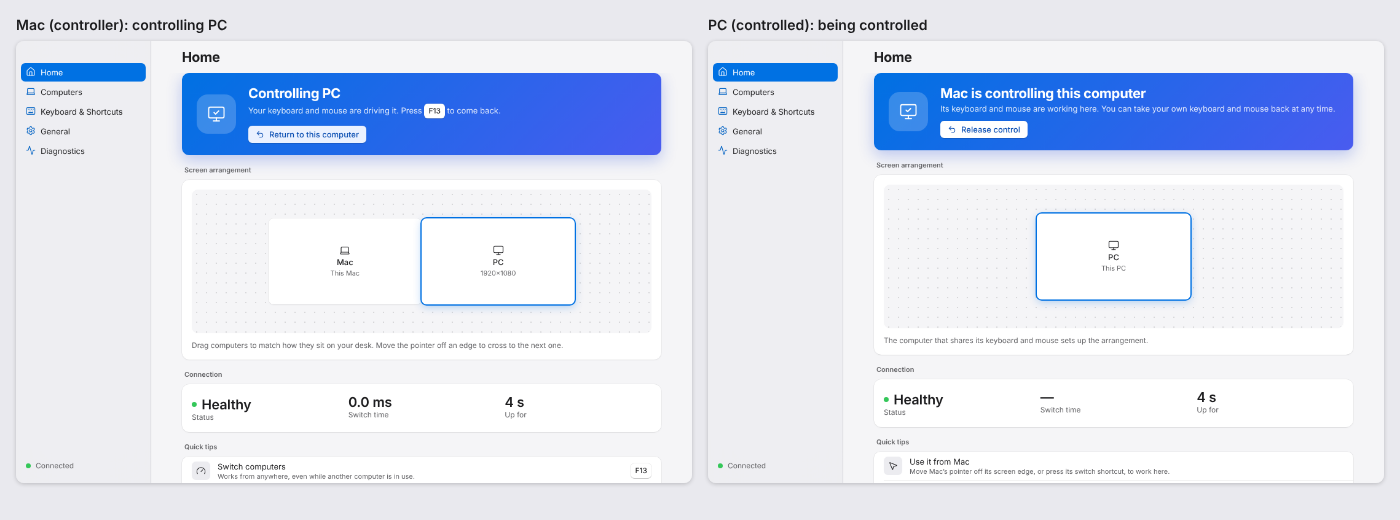
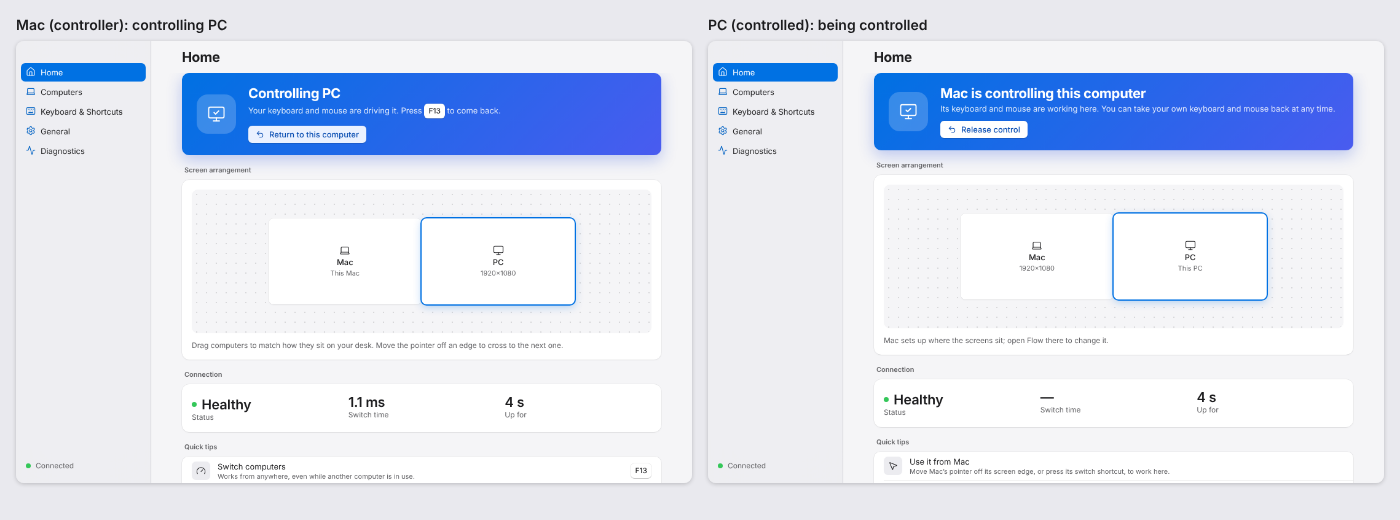
fix(ui): a controlled computer's arrangement shows its controller
The engine's layout on a controlled computer only has its own screen,
so Home showed one lonely tile. It now shows the controller beside it,
read-only, and says the controller sets up where screens sit.

Claude-Session: https://claude.ai/code/session_01VqG8KjxmVRiXuMMAxn8FU4

diff --git a/app/ui/src/features/home/HomeView.tsx b/app/ui/src/features/home/HomeView.tsx
@@ -44,7 +44,31 @@ export function HomeView() {
     : activeScreen === 'local'
       ? (me?.id ?? null)
       : activeScreen;
-  const hasLayout = s.screenLayout.screens.length > 1;
+  // A controlled computer only knows its own screen; the arrangement lives on
+  // the controller. Show the controller beside it so the picture isn't one
+  // lonely tile (read-only; where they really sit is set on the controller).
+  const controllerDevice = s.controlState?.controllerDeviceId
+    ? s.devices.find((d) => d.id === s.controlState?.controllerDeviceId)
+    : undefined;
+  const layout = (() => {
+    if (controller || !controllerDevice || !me) return s.screenLayout;
+    if (s.screenLayout.screens.some((r) => r.deviceId === controllerDevice.id)) return s.screenLayout;
+    const mine = s.screenLayout.screens.find((r) => r.deviceId === me.id) ?? {
+      deviceId: me.id,
+      x: 0,
+      y: 0,
+      width: 1920,
+      height: 1080,
+    };
+    const theirs = controllerDevice.screen ?? { width: 1920, height: 1080 };
+    return {
+      screens: [
+        { deviceId: controllerDevice.id, x: 0, y: 0, width: theirs.width, height: theirs.height },
+        { ...mine, x: theirs.width, y: 0 },
+      ],
+    };
+  })();
+  const hasLayout = layout.screens.length > 1;
   const diag = s.diagnostics;
   const settings = s.settings;
   const controllerName =
@@ -63,7 +87,7 @@ export function HomeView() {
           </h2>
           <div className="fl-card">
             <ArrangementEditor
-              layout={s.screenLayout}
+              layout={layout}
               devices={s.devices}
               activeId={activeId}
               editable={controller}
@@ -80,7 +104,7 @@ export function HomeView() {
             <p className="t-callout t-secondary" style={{ marginTop: 'var(--s-3)' }}>
               {controller
                 ? 'Drag computers to match how they sit on your desk. Move the pointer off an edge to cross to the next one.'
-                : 'The computer that shares its keyboard and mouse sets up the arrangement.'}
+                : `${controllerDevice?.name ?? 'The computer that shares its keyboard and mouse'} sets up where the screens sit; open Flow there to change it.`}
             </p>
           </div>
         </section>

diff --git a/app/ui/e2e-live/switching.spec.ts b/app/ui/e2e-live/switching.spec.ts
@@ -43,6 +43,18 @@ test('2. switching from the UI: controller drives the PC, keys land only there, 
   await expect(pcPage.getByText('Take your computer back')).toBeVisible();
   await expect(pcPage.getByText('Switch computers', { exact: true })).toHaveCount(0);
   await expect(macPage.getByText('Switch computers', { exact: true })).toBeVisible();
+  // The controlled page shows its controller beside it, read-only, not a lone tile.
+  await expect(pcPage.getByTestId(`tile-${pc.idOf('Mac')}`)).toBeVisible();
+  await expect(pcPage.getByTestId('home')).toContainText('Mac sets up where the screens sit');
+  // Switch time is real but sub-millisecond in-process: never a misleading "0.0 ms".
+  await expect
+    .poll(
+      () =>
+        (mac.state.get('diagnostics_changed') as { switch_latency_ms_p50: number | null })
+          ?.switch_latency_ms_p50,
+    )
+    .not.toBeNull();
+  await expect(macPage.getByTestId('home')).not.toContainText('0.0 ms');
 
   // On the blue live card the prominent button stays white, also under the pointer.
   const back = macPage.getByRole('button', { name: 'Return to this computer' });
